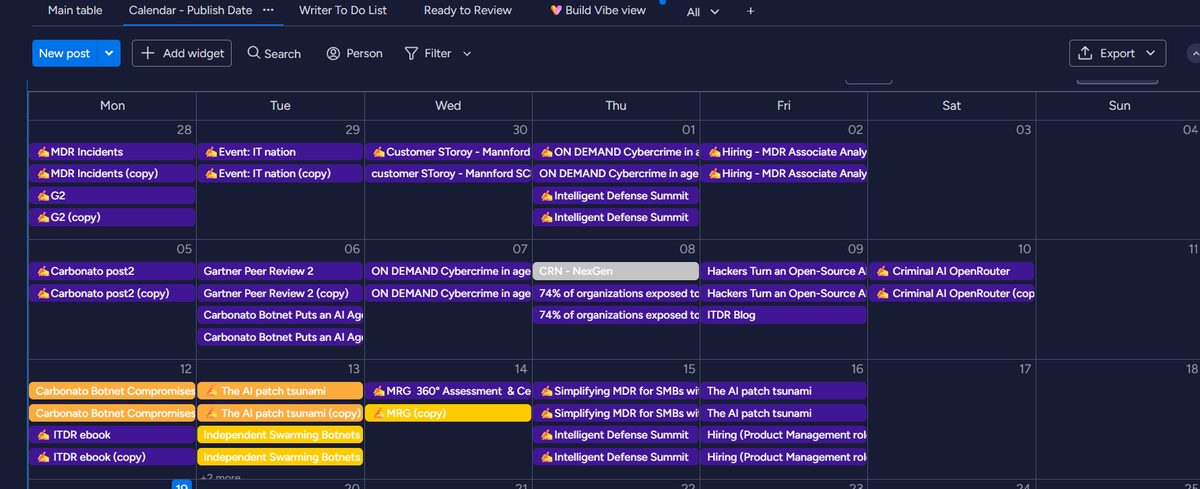
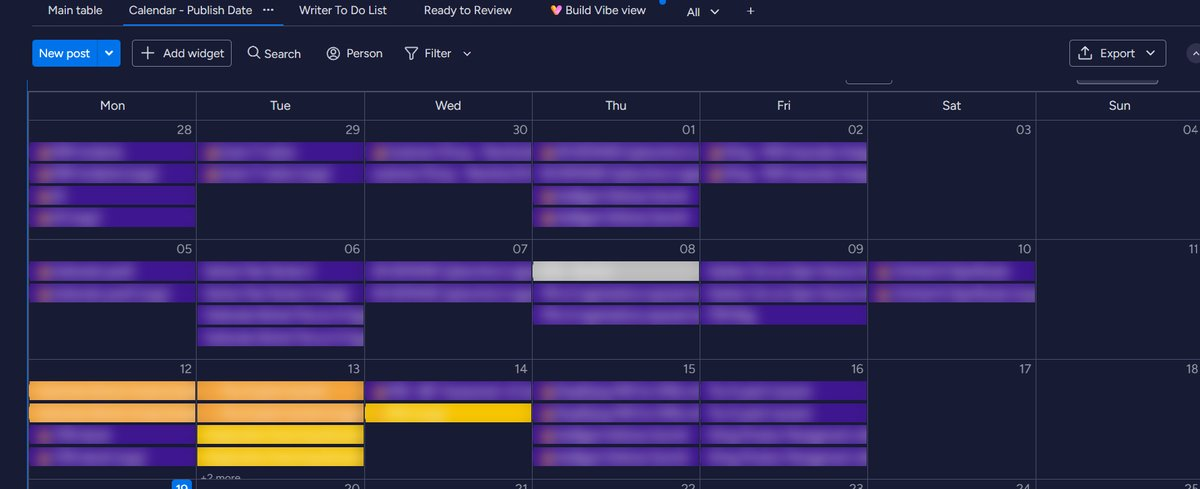
Liv's notes: Leadtail intro, Statistical Analysis consistency, blur client names in calendars

Changed region(s): [[0.0, 0.7669, 0.74, 0.9816], [0.0308, 0.5215, 0.8633, 0.7055], [0.0308, 0.2761, 0.74, 0.4908]]

diff --git a/index.html b/index.html
@@ -1261,7 +1261,7 @@
             </div>
 
             <p class="text-sm sm:text-base text-slate-600 leading-relaxed">
-              Below is an authentic view of my multi-brand project schedule at Leadtail, illustrating how <strong>Founder Video Snippets</strong>, <strong>Security Thematic Series</strong>, and <strong>Transform Event Campaigns</strong> were coordinated, reviewed, and scheduled across platforms with exact SLA governance:
+              Here are a few of the content calendars I ran at Leadtail, in HeyOrca, Sprout Social, and our internal schedule. Tap one to see it up close.
             </p>
 
             <!-- Rotating 3-calendar stack (HeyOrca, Sprout Social, Leadtail schedule). Without JavaScript it stays a static stack; see assets/js/site.js -->
@@ -1669,7 +1669,7 @@
                   </span>
                 </div>
                 <h4 class="font-serif font-bold text-slate-900 text-base">Python / Anaconda</h4>
-                <p class="text-xs sm:text-sm font-semibold text-pink-600 mb-1.5">Statistical Analytics &amp; Data Visualization</p>
+                <p class="text-xs sm:text-sm font-semibold text-pink-600 mb-1.5">Statistical Analysis &amp; Data Visualization</p>
                 <p class="text-sm sm:text-base text-slate-600 leading-relaxed">I use Python in Anaconda for statistical analysis and data visualization, turning campaign data into clear charts.</p>
               </div>
               <div class="pt-2.5 border-t border-pink-100/60 text-xs sm:text-sm text-emerald-700 font-semibold">
